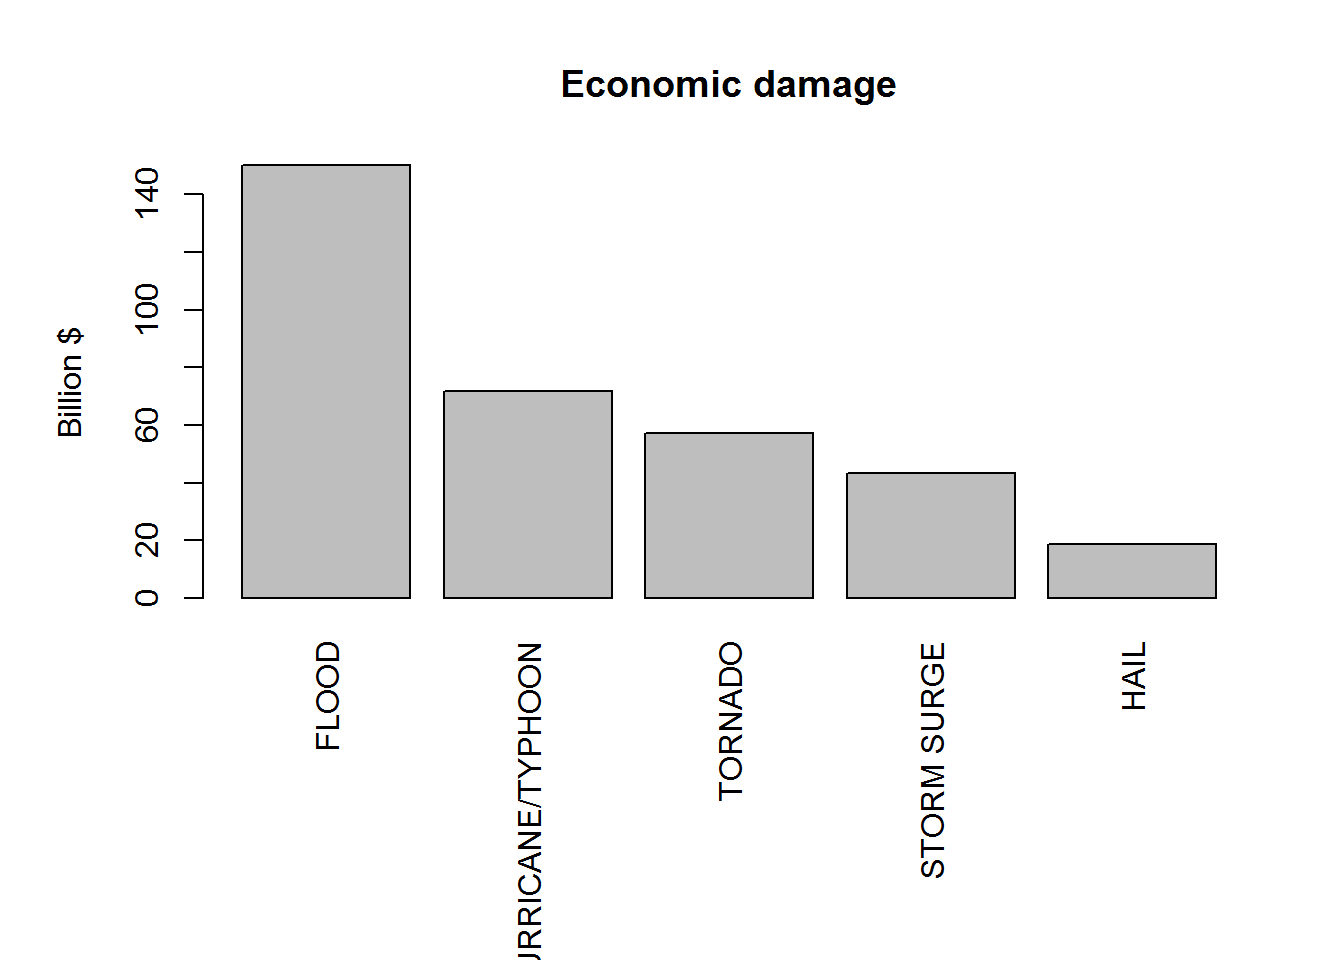
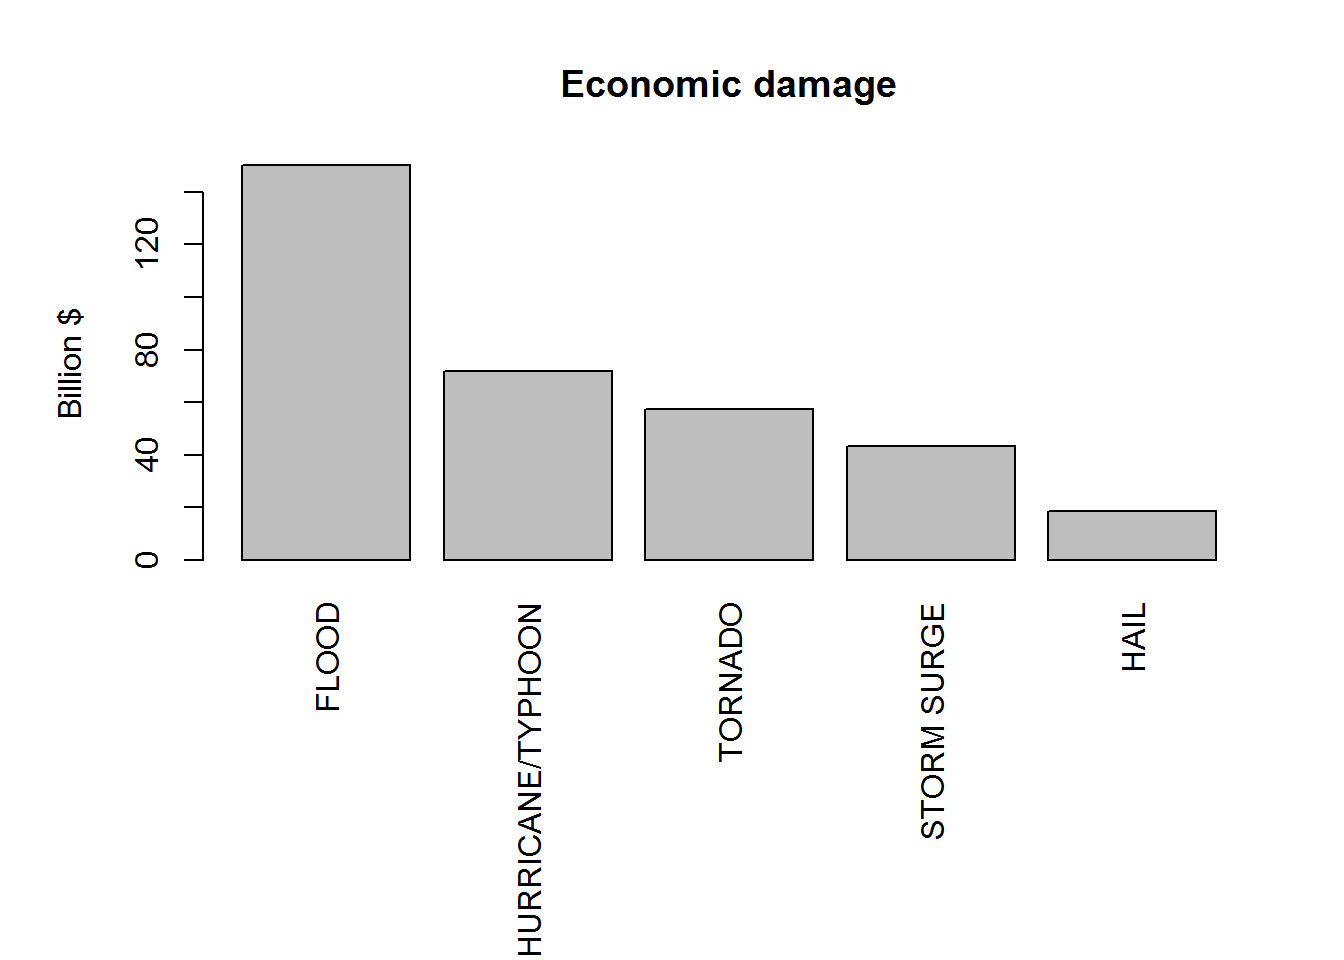
END!

diff --git a/NOAA_Analysis.html b/NOAA_Analysis.html
@@ -69,7 +69,11 @@ img {
 <div id="synopsis" class="section level2">
 <h2>Synopsis</h2>
 <p>Storms and other severe weather events can cause both public health and economic problems for communities and municipalities. Many severe events can result in fatalities, injuries, and property damage, and preventing such outcomes to the extent possible is a key concern. In this document storms and other severe weather events from the U.S. National Oceanic and Atmospheric Administration’s (NOAA) storm database are analyzed. Using whole data from 1950 to November 2011 questions about severe weather events were studied. The most harmful type of events with respect to population health and type of events with the greatest economic consequences were determined.</p>
-<p>There was found, that: * Tornado is most harmful with respect to population health and cause about 3.7% of all fatalities from weather events and 6.5% of all injuries from weather events * Flood have the greatest economic consequences and cause 3.8% of all money losses from weather events</p>
+<p>There was found, that:</p>
+<ul>
+<li><p>Tornado is most harmful with respect to population health and cause about 3.7% of all fatalities from weather events and 6.5% of all injuries from weather events</p></li>
+<li><p>Flood have the greatest economic consequences and cause 3.8% of all money losses from weather events</p></li>
+</ul>
 </div>
 <div id="data-processing" class="section level2">
 <h2>Data Processing</h2>
@@ -148,7 +152,7 @@ ConvTable&lt;-data.frame(DMGEXP = powIndicator, B = c(0,1,2,3,4,5,6,7,8,9,2,2,3,
 xt &lt;- xtable(ConvTable)
 print(xt, type=&quot;html&quot;,include.rownames=FALSE)</code></pre>
 <!-- html table generated in R 3.1.3 by xtable 1.7-4 package -->
-<!-- Mon Oct 26 00:57:17 2015 -->
+<!-- Mon Oct 26 01:00:07 2015 -->
 <table border="1">
 <tr>
 <th>
@@ -360,18 +364,18 @@ p.sum$SUM &lt;- p.sum$CROPDMG + p.sum$PROPDMG</code></pre>
 <pre class="r"><code>p.ten &lt;- head(p.sum[order(-p.sum$SUM), ], 5)
 
 row.names(p.ten) &lt;- p.ten$EVTYPE
-print(p.ten[,c(1,3)], row.names = FALSE)</code></pre>
-<pre><code>##             EVTYPE      PROPDMG
-##              FLOOD 144657709807
-##  HURRICANE/TYPHOON  69305840000
-##            TORNADO  56947380677
-##        STORM SURGE  43323536000
-##               HAIL  15735267513</code></pre>
+print(p.ten[,c(1,4)], row.names = FALSE)</code></pre>
+<pre><code>##             EVTYPE          SUM
+##              FLOOD 150319678257
+##  HURRICANE/TYPHOON  71913712800
+##            TORNADO  57362333947
+##        STORM SURGE  43323541000
+##               HAIL  18761221986</code></pre>
 <p>So, the most harmful effect is <strong>Flood</strong>. The most harmful effects in order to money loss are plotted.</p>
-<pre class="r"><code>par(mar=c(8,3,4,2)+0.1)
+<pre class="r"><code>par(mar=c(10,5,4,2)+0.3)
 barplot(p.ten$SUM/ 1e9, main=&quot;Economic damage&quot;, ylab=&quot;Billion $&quot;,
         las=3, names.arg = p.ten$EVTYPE)</code></pre>
[2 lines of base64/hex data omitted]
 <p>Finally, there is evaluation the percentage of money loss from <strong>Flood</strong>.</p>
 <pre class="r"><code>h &lt;- p.ten$SUM[1]/ (sum(crop.sum$CROPDMG) + sum(prop.sum$PROPDMG))
 print(paste0(&quot;Percentage of money loss from Tornado:&quot;, h * 10, &quot; %&quot;))</code></pre>
